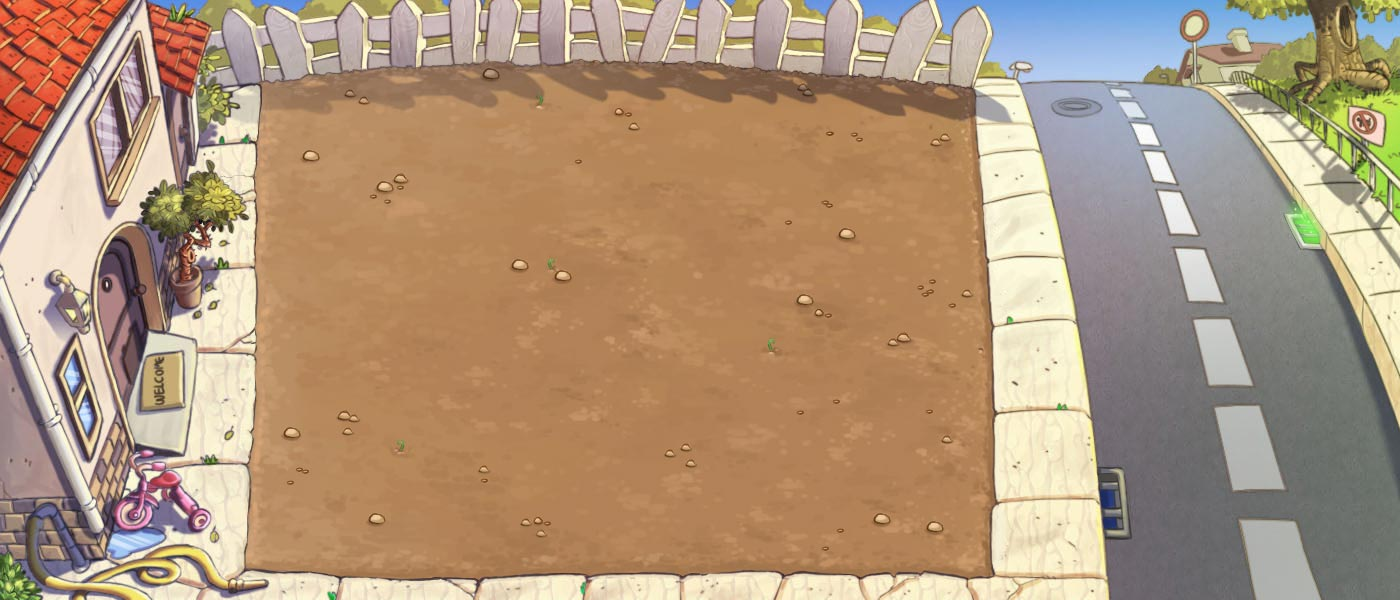
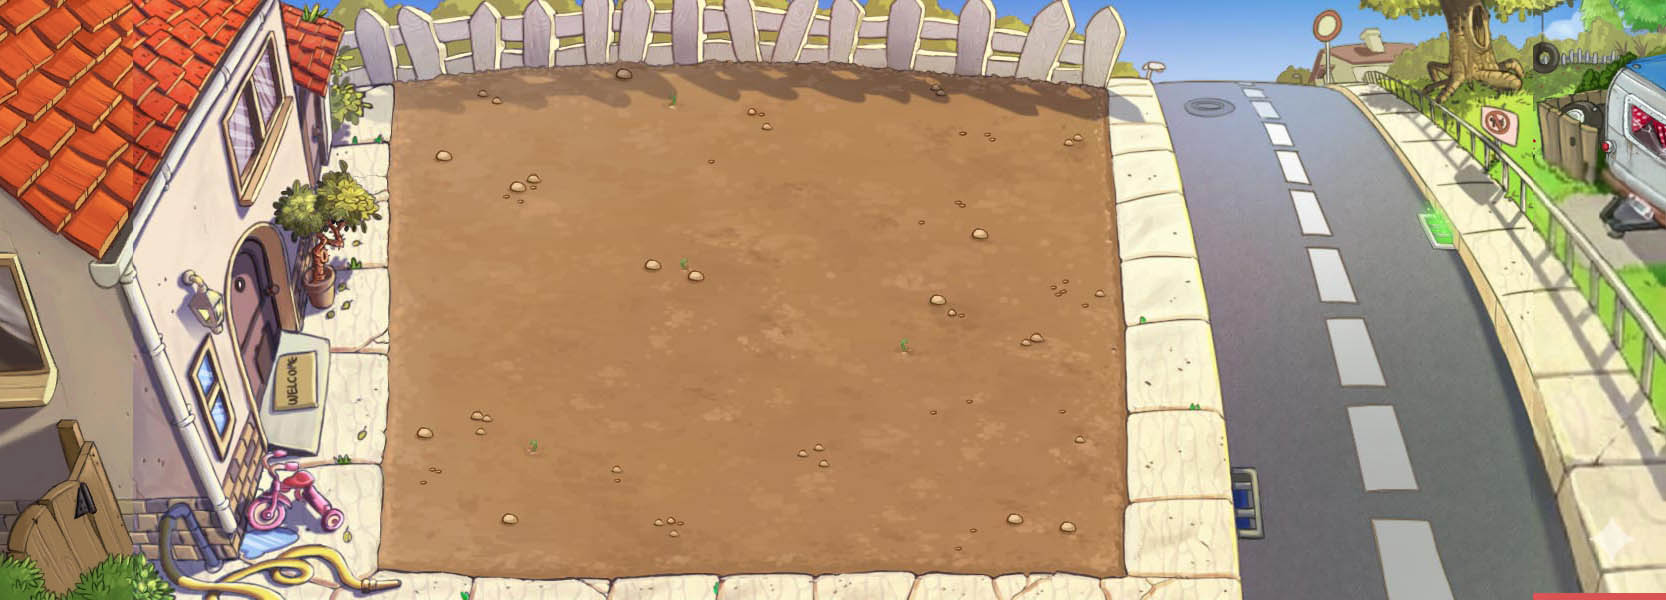
16:9 WIP

diff --git a/src/Lawn/Board.cpp b/src/Lawn/Board.cpp
@@ -1132,10 +1132,25 @@ void Board::PickBackground()
 			}
 			else if (mPlantRow[y] == PlantRowType::PLANTROW_HIGH_GROUND && x >= 4 && x <= 8)
 			{
+                //TODO:屋顶关卡的PlantRowType始终为PLANTROW_GRASS，以后会清理
 				mGridSquareType[x][y] = GridSquareType::GRIDSQUARE_HIGH_GROUND;
 			}
 		}
 	}
+
+    for (int y = 0; y < MAX_GRID_SIZE_Y; y++)
+    {
+        if (!StageHasRoof() && StageHasPool())
+        {
+            mGridSquareType[9][y] = GridSquareType::GRIDSQUARE_NONE;   // 第10列 - 泳池关卡设为NONE
+            mGridSquareType[10][y] = GridSquareType::GRIDSQUARE_NONE;  // 第11列 - 泳池关卡设为NONE
+        }
+        else if(!StageHasRoof())
+        {
+            mGridSquareType[9][y] = GridSquareType::GRIDSQUARE_DIRT;   // 第10列 - 其他关卡设为DIRT
+            mGridSquareType[10][y] = GridSquareType::GRIDSQUARE_DIRT;  // 第11列 - 其他关卡设为DIRT
+        }
+    }
 
 	MTRand aLevelRNG(GetLevelRandSeed());
 	if (StageHasGraveStones())
@@ -9464,14 +9479,33 @@ float Board::GetPosYBasedOnRow(float thePosX, int theRow)
 	if (StageHasRoof())
 	{
 		float aSlopeOffset = 0.0f;
-		if (thePosX < 440.0f)
+        //80.0*5.0f+LAWN_XMIN
+		if (thePosX < 80.0*5.0f+LAWN_XMIN)
 		{
-			aSlopeOffset = (440.0f - thePosX) * 0.25f;
+			aSlopeOffset = (80.0*5.0f+LAWN_XMIN - thePosX) * 0.25f;
 		}
+        else if (thePosX >= 80.0*9.0f+LAWN_XMIN)  // Fixed: changed from 720.0f+200
+        {
+            // 当X坐标大于640像素时，计算向上的斜坡偏移
+            aSlopeOffset = (thePosX - (80.0*9.0f+LAWN_XMIN)) * 0.25f;  // Also fixed: changed from 720.0f
+        }
 
-		return GridToPixelY(8, theRow) + aSlopeOffset;
+        return GridToPixelY(10, theRow) + aSlopeOffset;
 	}
-	
+    else if (StageHasPool())
+    {
+        float aSlopeOffset = 0.0f;
+        //80.0*5.0f+LAWN_XMIN
+        if (thePosX <= 80.0*11.0f+LAWN_XMIN && thePosX > 80.0*10.0f+LAWN_XMIN)  // Fixed: changed from 720.0f+200
+        {
+            // 当X坐标大于640像素时，计算向上的斜坡偏移
+            aSlopeOffset = (thePosX - (80.0*11.0f+LAWN_XMIN)) * 0.45f;  // Also fixed: changed from 720.0f
+        }else if (thePosX <= 80.0*10.0f+LAWN_XMIN && thePosX > 80.0*9.0f+10+LAWN_XMIN + 30 - (5 - theRow) * 2)
+        {
+            aSlopeOffset = ((80.0*9.0f+10+LAWN_XMIN + 30 - (5 - theRow) * 2)-thePosX) * 0.45f;
+        }
+        return GridToPixelY(10, theRow) + aSlopeOffset;
+    }
 	return GridToPixelY(0, theRow);
 }
 
@@ -9491,19 +9525,23 @@ int Board::GridToPixelY(int theGridX, int theGridY)
 	}
 
 	int aY;
-	if (StageHasRoof())
-	{
-		int aSlopeOffset;
-		if (theGridX < 5)
-		{
-			aSlopeOffset = (5 - theGridX) * 20;
-		}
-		else
-		{
-			aSlopeOffset = 0;
-		}
-		aY = theGridY * 85 + aSlopeOffset + LAWN_YMIN - 10;
-	}
+    if (StageHasRoof())
+    {
+        int aSlopeOffset;
+        if (theGridX > 9 && theGridX < 12)  // 第10-11列：右坡度
+        {
+            aSlopeOffset = (11 - theGridX) * 20;
+        }
+        else if (theGridX < 5)  // 第0-4列：左坡度
+        {
+            aSlopeOffset = (5 - theGridX) * 20;
+        }
+        else  // 第5-9列和14+列：平地
+        {
+            aSlopeOffset = 0;
+        }
+        aY = theGridY * 85 + aSlopeOffset + LAWN_YMIN - 10;
+    }
 	else if (StageHasPool())
 	{
 		aY = theGridY * 85 + LAWN_YMIN;

diff --git a/src/Lawn/Challenge.cpp b/src/Lawn/Challenge.cpp
@@ -258,7 +258,7 @@ ZombieAllowedLevels gZombieAllowedLevels[NUM_ZOMBIE_TYPES] = {  //0x6A35B0
 	{ ZOMBIE_REDEYE_GARGANTUAR, {0} },
 };
 
-SeedType gArtChallengeWallnut[MAX_GRID_SIZE_Y][MAX_GRID_SIZE_X] = {  //0x6A3260
+SeedType gArtChallengeWallnut[MAX_GRID_SIZE_Y][GRID_SIZE_X] = {  //0x6A3260
 	{SEED_NONE,     SEED_NONE,      SEED_NONE,      SEED_NONE,      SEED_WALLNUT,   SEED_WALLNUT,   SEED_WALLNUT,   SEED_NONE,      SEED_NONE},
 	{SEED_NONE,     SEED_NONE,      SEED_NONE,      SEED_WALLNUT,   SEED_NONE,      SEED_NONE,      SEED_NONE,      SEED_WALLNUT,   SEED_NONE},
 	{SEED_NONE,     SEED_NONE,      SEED_NONE,      SEED_WALLNUT,   SEED_NONE,      SEED_NONE,      SEED_NONE,      SEED_WALLNUT,   SEED_NONE},
@@ -267,7 +267,7 @@ SeedType gArtChallengeWallnut[MAX_GRID_SIZE_Y][MAX_GRID_SIZE_X] = {  //0x6A3260
 	{SEED_NONE,     SEED_NONE,      SEED_NONE,      SEED_NONE,      SEED_NONE,      SEED_NONE,      SEED_NONE,      SEED_NONE,      SEED_NONE}
 };
 
-SeedType gArtChallengeSunFlower[MAX_GRID_SIZE_Y][MAX_GRID_SIZE_X] = {  //0x6A3338
+SeedType gArtChallengeSunFlower[MAX_GRID_SIZE_Y][GRID_SIZE_X] = {  //0x6A3338
 	{SEED_NONE,     SEED_NONE,      SEED_STARFRUIT, SEED_STARFRUIT, SEED_STARFRUIT, SEED_NONE,      SEED_NONE,      SEED_NONE,      SEED_NONE},
 	{SEED_NONE,     SEED_STARFRUIT, SEED_WALLNUT,   SEED_WALLNUT,   SEED_WALLNUT,   SEED_STARFRUIT, SEED_NONE,      SEED_NONE,      SEED_NONE},
 	{SEED_NONE,     SEED_NONE,      SEED_STARFRUIT, SEED_STARFRUIT, SEED_STARFRUIT, SEED_NONE,      SEED_NONE,      SEED_NONE,      SEED_NONE},
@@ -276,7 +276,7 @@ SeedType gArtChallengeSunFlower[MAX_GRID_SIZE_Y][MAX_GRID_SIZE_X] = {  //0x6A333
 	{SEED_NONE,     SEED_NONE,      SEED_NONE,      SEED_NONE,      SEED_NONE,      SEED_NONE,      SEED_NONE,      SEED_NONE,      SEED_NONE}
 };
 
-SeedType gArtChallengeStarFruit[MAX_GRID_SIZE_Y][MAX_GRID_SIZE_X] = {  //0x6A3410
+SeedType gArtChallengeStarFruit[MAX_GRID_SIZE_Y][GRID_SIZE_X] = {  //0x6A3410
 	{SEED_NONE,     SEED_NONE,      SEED_NONE,      SEED_STARFRUIT, SEED_NONE,      SEED_NONE,      SEED_NONE,      SEED_NONE,      SEED_NONE},
 	{SEED_NONE,     SEED_NONE,      SEED_NONE,      SEED_STARFRUIT, SEED_STARFRUIT, SEED_NONE,      SEED_NONE,      SEED_NONE,      SEED_NONE},
 	{SEED_NONE,     SEED_STARFRUIT, SEED_STARFRUIT, SEED_STARFRUIT, SEED_STARFRUIT, SEED_STARFRUIT, SEED_STARFRUIT, SEED_NONE,      SEED_NONE},

diff --git a/src/Lawn/Zombie.cpp b/src/Lawn/Zombie.cpp
@@ -92,7 +92,7 @@ void Zombie::ZombieInitialize(int theRow, ZombieType theType, bool theVariant, Z
 
     mFromWave = theFromWave;
     mRow = theRow;
-    mPosX = 780 + Rand(ZOMBIE_START_RANDOM_OFFSET);
+    mPosX = 780+200 + Rand(ZOMBIE_START_RANDOM_OFFSET);
     mPosY = GetPosYBasedOnRow(theRow);
     mVelX = 0.0f;
     mVelZ = 0.0f;
@@ -332,7 +332,7 @@ void Zombie::ZombieInitialize(int theRow, ZombieType theType, bool theVariant, Z
         mZombiePhase = ZombiePhase::PHASE_POLEVAULTER_PRE_VAULT;
         mHasObject = true;
         mVariant = false;
-        mPosX = WIDE_BOARD_WIDTH + 70 + Rand(10);
+        mPosX = 780+200 + 80 + Rand(10);
         if (IsOnBoard())
         {
             PlayZombieReanim("anim_run", ReanimLoopType::REANIM_LOOP, 0, 0.0f);
@@ -4562,6 +4562,14 @@ void Zombie::UpdateActions()
     if (mZombieType == ZombieType::ZOMBIE_SQUASH_HEAD)
     {
         UpdateZombieSquashHead();
+    }
+
+    if (mPosX <= 80.0*9.0f+40+LAWN_XMIN && mPosX > 80.0*9.0f+10+LAWN_XMIN - (5 - mRow) * 2)
+    {
+        if (mVelX < 0.5f)
+        {
+            mPosX -= 0.75f;  // TODO:水平移动速度限制
+        }
     }
 }
 

diff --git a/src/Lawn/CutScene.cpp b/src/Lawn/CutScene.cpp
@@ -68,7 +68,7 @@ static const int	TimeIntro_PanRightEnd			= 11890;	//[0x6AA29C]
 static const int	TimeIntro_FadeOut				= 10890;	//[0x6AA2A0]
 static const int	TimeIntro_FadeOutEnd			= 11890;	//[0x6AA2A4]
 static const int	TimeIntro_End					= 13890;	//[0x6AA2A8]
-static const int	TimeLawnMowerDuration			= 250;
+static const int	TimeLawnMowerDuration			= 150;
 static const int	TimeLawnMowerStart[6]			= { 6300, 6250, 6200, 6150, 6100, 6050 };	//[0x6AA2AC]
 
 //0x4390E0
@@ -1281,7 +1281,7 @@ void CutScene::AnimateBoard()
 				if (aLawnMower)
 				{
 					aLawnMower->mVisible = true;
-					aLawnMower->mPosX = CalcPosition(aTimeLawnMowerStart, aTimeLawnMowerStart + TimeLawnMowerDuration, -80, -21);
+					aLawnMower->mPosX = CalcPosition(aTimeLawnMowerStart, aTimeLawnMowerStart + TimeLawnMowerDuration, -40+200, -11+200);
 				}
 			}
 		}

diff --git a/src/GameConstants.h b/src/GameConstants.h
@@ -6,14 +6,14 @@ constexpr const double PI = 3.141592653589793;
 // ============================================================
 // ■ 常数
 // ============================================================
-const int			BOARD_WIDTH = 800;
+const int			BOARD_WIDTH = 1066;
 const int			BOARD_HEIGHT = 600;
-const int			WIDE_BOARD_WIDTH = 800;
-const int			BOARD_OFFSET = 220;
-const int			BOARD_EDGE = -100;
-const int			BOARD_IMAGE_WIDTH_OFFSET = 1180;
+const int			WIDE_BOARD_WIDTH = 1066;
+const int			BOARD_OFFSET = 200;
+const int			BOARD_EDGE = 133;
+const int			BOARD_IMAGE_WIDTH_OFFSET = 1180+133+133;
 const int           BOARD_ICE_START = 800;
-const int           LAWN_XMIN = 40;
+const int           LAWN_XMIN = -40 +133+100;
 const int           LAWN_YMIN = 80;
 const int           HIGH_GROUND_HEIGHT = 30;
 

diff --git a/src/SexyAppFramework/SexyAppBase.cpp b/src/SexyAppFramework/SexyAppBase.cpp
@@ -16,7 +16,7 @@
 #include "SexyAppBase.h"
 #include "SexyAppFramework/widget/WidgetManager.h"
 #include "SexyAppFramework/widget/Widget.h"
-#include "../Sexy.TodLib/TodDebug.h"
+#include "Sexy.TodLib/TodDebug.h"
 #include "SexyAppFramework/graphics/GLImage.h"
 #include "SexyAppFramework/graphics/MemoryImage.h"
 #include "SexyAppFramework/graphics/GLInterface.h"

diff --git a/src/Lawn/widgets/CheatDialog.cpp b/src/Lawn/widgets/CheatDialog.cpp
@@ -148,7 +148,7 @@ bool CheatDialog::ApplyCheat()
 	if (mApp->mPlayerInfo)
 	{
 		mApp->mPlayerInfo->SetLevel(aLevel);
-		mApp->mPlayerInfo->mFinishedAdventure = aFinishedAdventure;
+		//mApp->mPlayerInfo->mFinishedAdventure = aFinishedAdventure;
 		mApp->WriteCurrentUserConfig();
 	}
 	return true;

diff --git a/src/Lawn/Board.h b/src/Lawn/Board.h
@@ -15,7 +15,8 @@
 
 using namespace Sexy;
 
-#define MAX_GRID_SIZE_X 9
+#define GRID_SIZE_X 9
+#define MAX_GRID_SIZE_X 11
 #define MAX_GRID_SIZE_Y 6
 #define MAX_ZOMBIES_IN_WAVE 50
 #define MAX_ZOMBIE_WAVES 100
